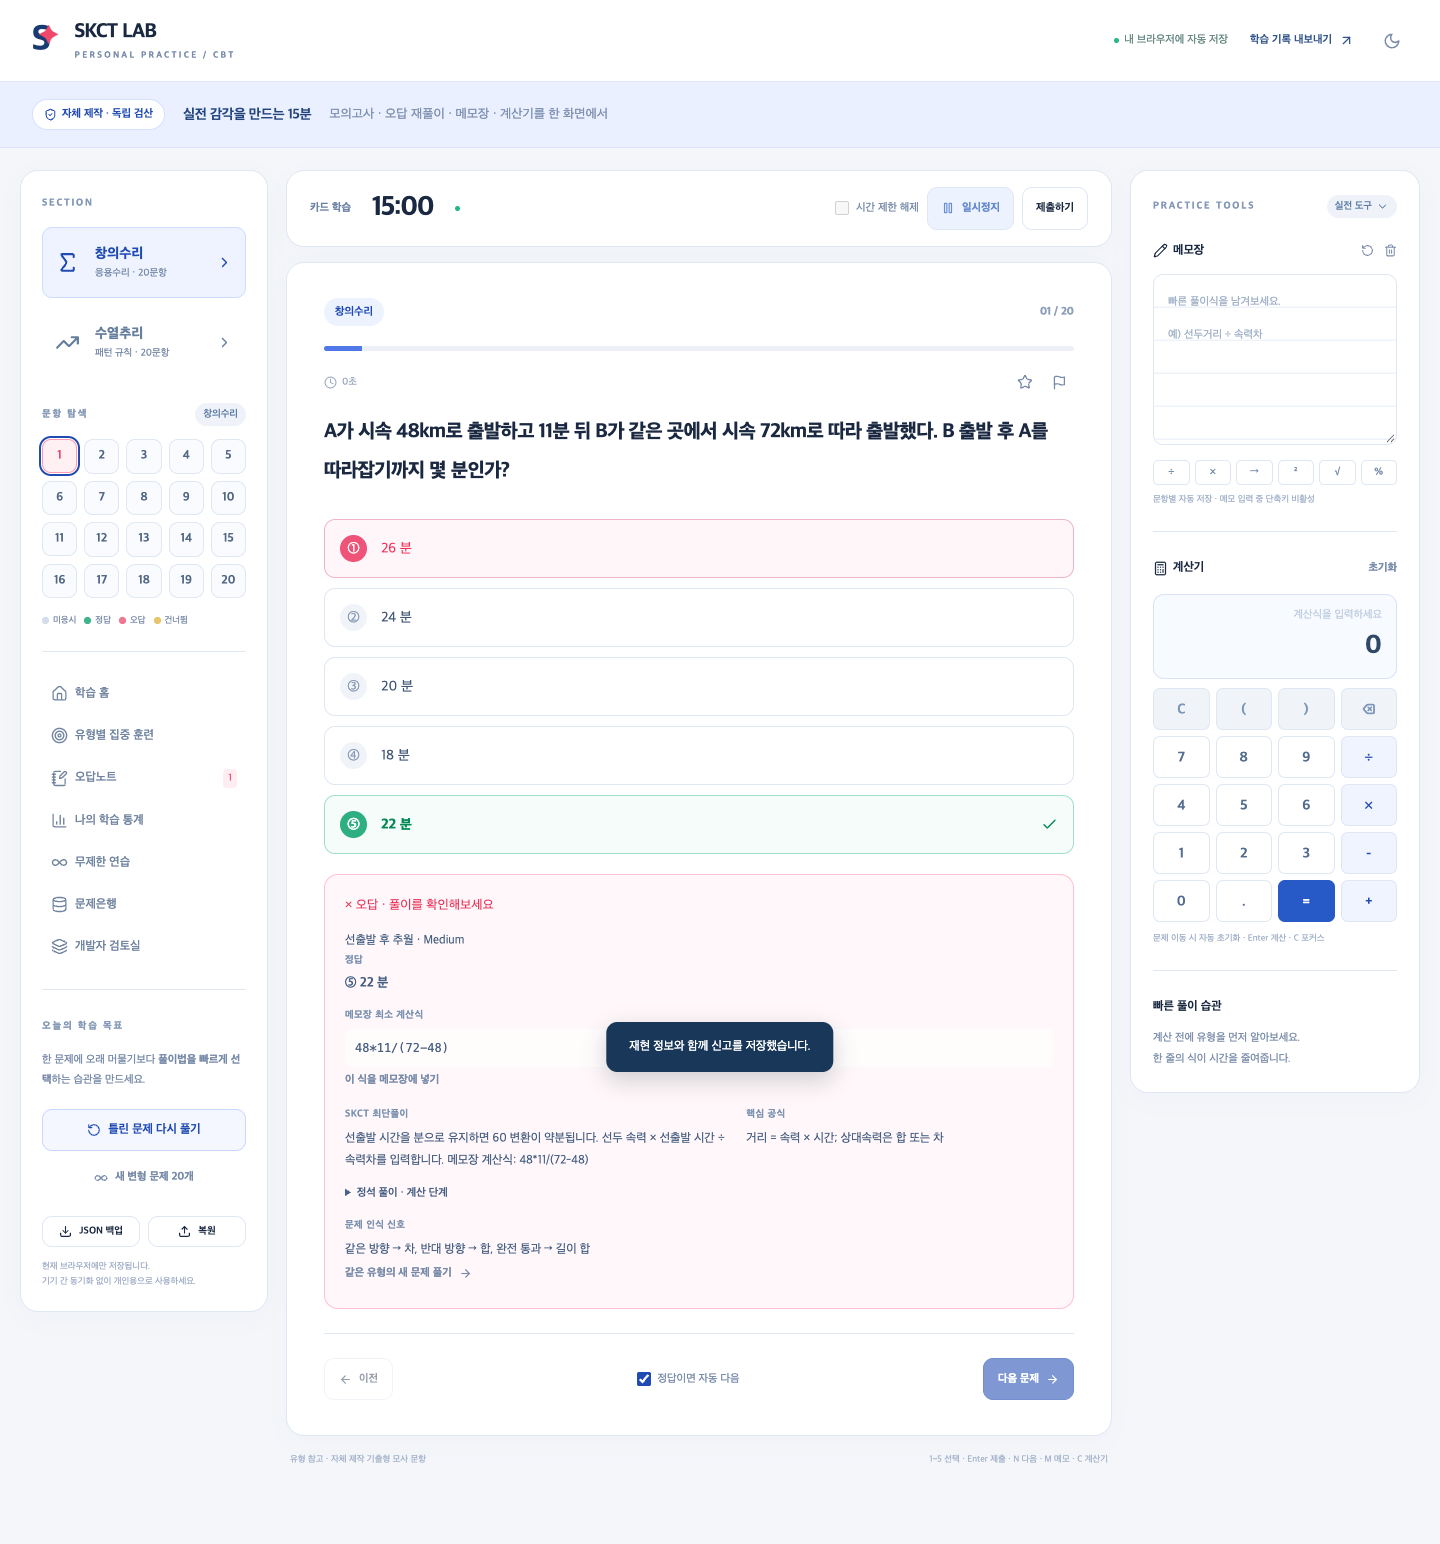
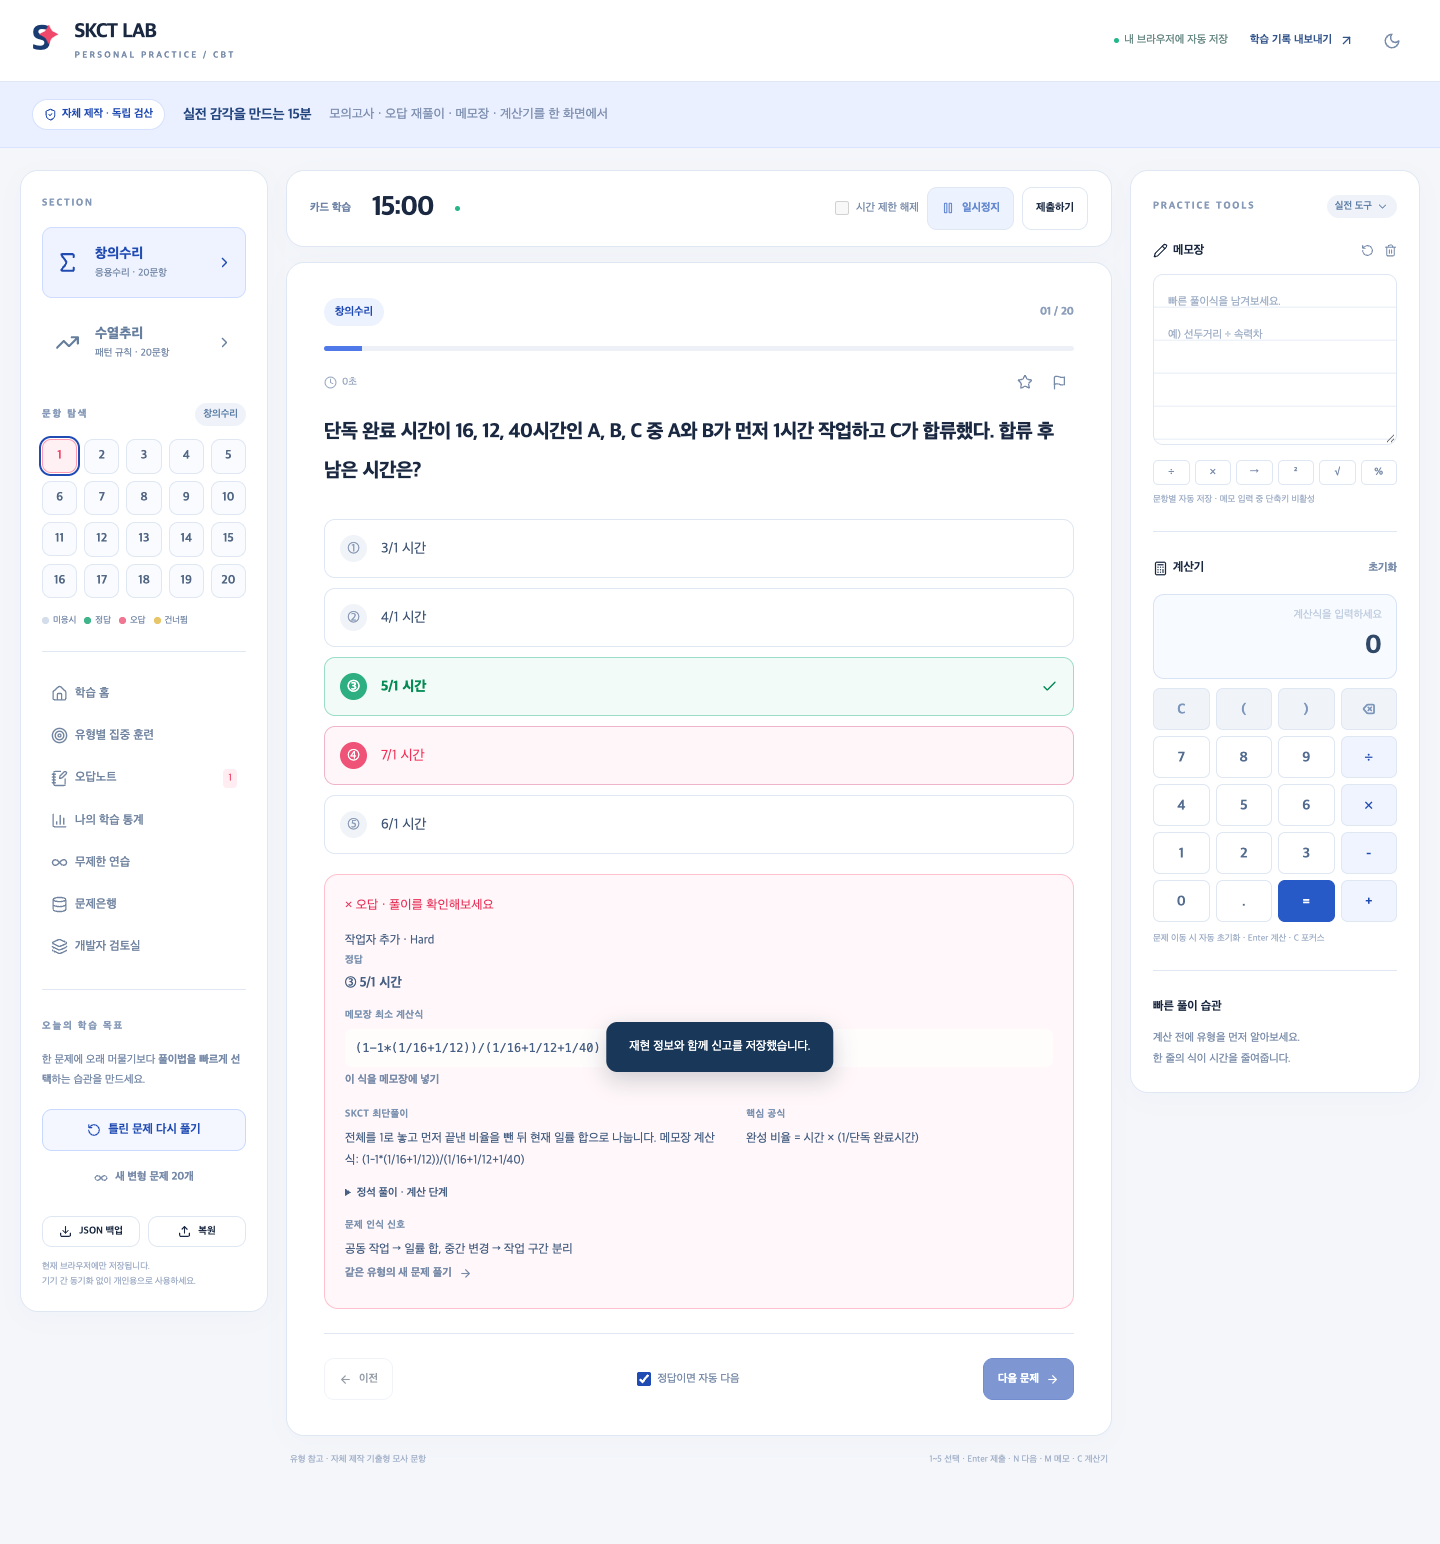
test: verify reference bank in desktop and mobile browsers

diff --git a/CLAUDE.md b/CLAUDE.md
@@ -78,7 +78,7 @@ npm run test:e2e    # 실제 Chrome(로컬) / Chromium(CI)
 npm run review     # 자체 제작 검토 샘플 갱신
 ```
 
-1.2.0 작업 검사: 단위 163개와 TypeScript·프로덕션 빌드 통과. 전체 128유형×200시드=25,600개, 연습 풀 80유형×500시드=40,000개, 신규 17유형×1,000시드=17,000개를 검사한다. 기존 버전 각각 555개 재현을 확인한다. 표본이 겹치므로 서로 다른 문항 수로 단순 합산하지 않는다. 브라우저 검사 결과·공개 배포 여부는 `docs/QA.md`와 PR의 최종 상태를 확인한다.
+1.2.0 작업 검사: 단위 163개와 TypeScript·프로덕션 빌드 통과. 전체 128유형×200시드=25,600개, 연습 풀 80유형×500시드=40,000개, 신규 17유형×1,000시드=17,000개를 검사한다. 기존 버전 각각 555개 재현을 확인한다. 표본이 겹치므로 서로 다른 문항 수로 단순 합산하지 않는다. 실제 Chrome 15개 검사 통과. 브라우저 검사 결과·공개 배포 여부는 `docs/QA.md`와 PR의 최종 상태를 확인한다.
 
 UI 변경은 관련 브라우저 검사와 데스크톱/모바일 육안 확인을 한다. 생성기 변경은 전체 검산과 빌드를 실행한다. 새 유형은 독립 검산·200시드 이상·5문항 수작업 검토 기록·PR 검토 절차가 필요하다. 사람이 승인했다고 임의로 표시하지 않는다. 테스트 실패를 수정하기 전 배포하지 않는다.
 

diff --git a/docs/QA.md b/docs/QA.md
@@ -67,5 +67,5 @@ macOS의 Chrome을 Playwright로 실행하고 Vite 로컬 서버에서 확인했
 - `npm run check`: 단위 테스트 163개와 TypeScript·프로덕션 빌드 통과. 전체 25,600개·연습 풀 40,000개·새 템플릿 17,000개 검사. 표본은 겹친다.
 - 새 수열의 실제 표시 문자열을 독립 파싱해 각 항의 수치와 대조한다. 메모식도 계산 결과와 비교한다.
 - 1.0.0·1.1.0 생성기 각각 555개 검증/재현, 혼합 백업 복원과 도형 변조 거절 확인.
-- 브라우저 검사 15개를 준비했다. 제한 환경에서 Chrome 프로세스가 시작되지 않은 실행은 기능 검사 통과로 세지 않는다. 권한을 허용한 로컬 실행/PR CI 결과와 화면 캡처를 확인한 뒤 결과를 갱신한다.
+- 실제 Chrome 브라우저 검사 15개 모두 통과(16.9초). 제한 환경의 Chrome 시작 실패는 기능 통과로 세지 않았으며, 실행 권한 처리 후 전체를 실행했다. 새 세트 구성·표/도형 표시·모바일·미답 풀이·기록 복원·집중 훈련 20문항을 확인했다. 새 [데스크톱](reference-desktop.png)·[모바일](reference-mobile.png) 캡처를 육안 검토했다.
 - 신규 85문항 검토 자료 준비. Codex의 문장/식 검토는 외부 사람의 수작업 승인과 구분하며, 공개 등록 여부는 PR/승인 기록을 확인한다.
